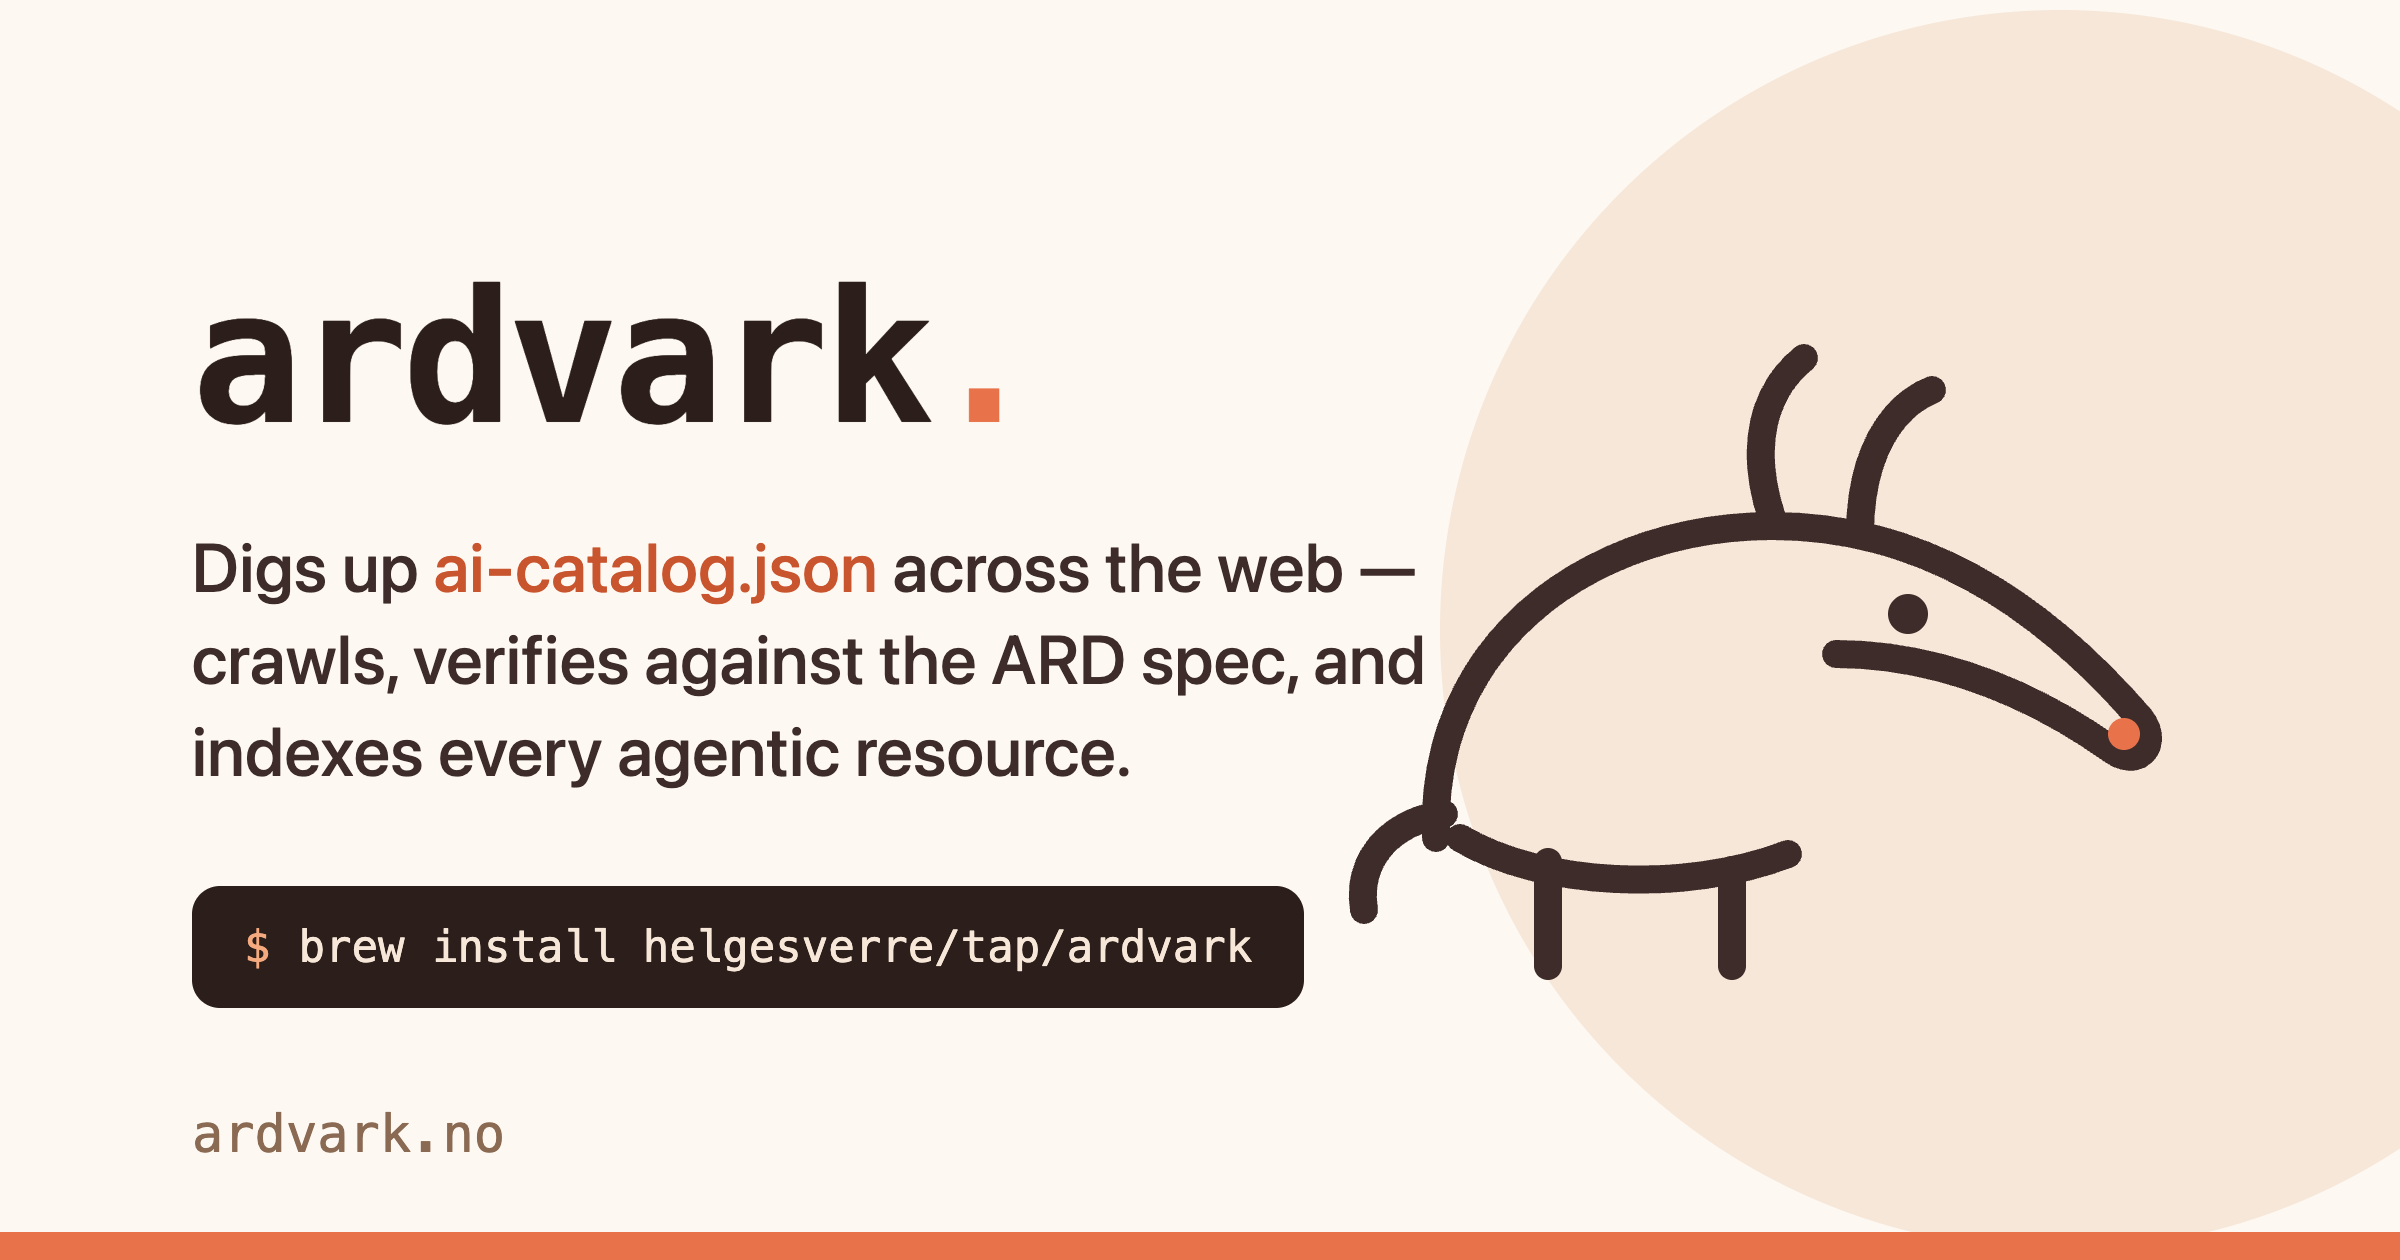
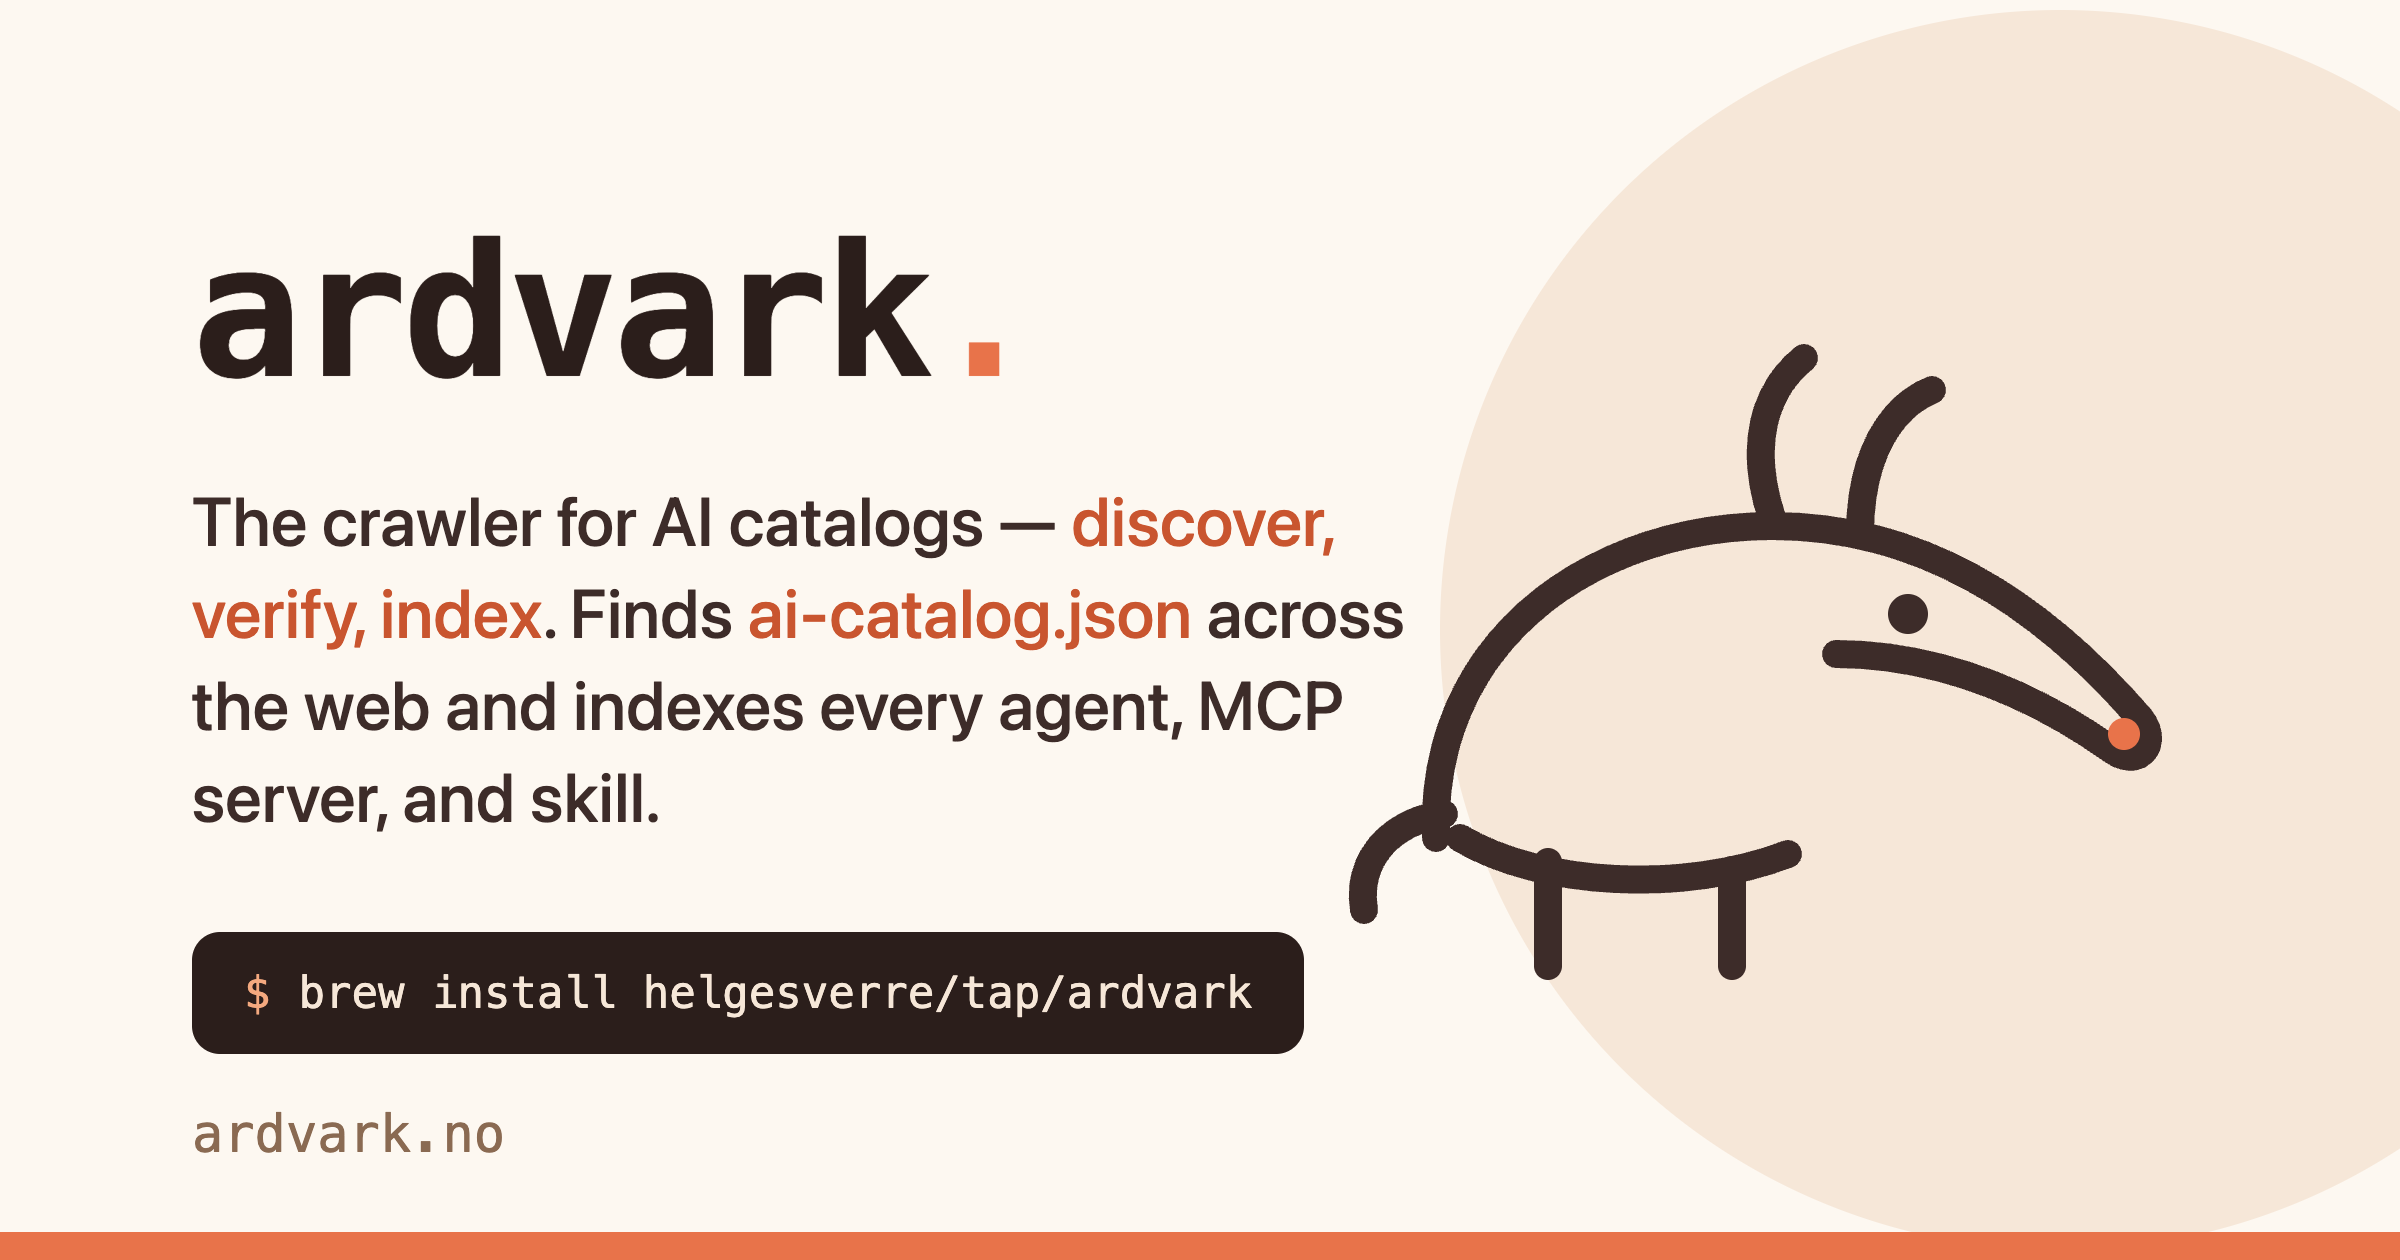
website update

Changed region(s): [[0.0625, 0.4024, 0.5938, 0.65], [0.0625, 0.681, 0.5625, 0.8357], [0.0625, 0.1857, 0.4375, 0.3405]]

diff --git a/website/index.html b/website/index.html
@@ -3,21 +3,21 @@
 <head>
   <meta charset="UTF-8">
   <meta name="viewport" content="width=device-width, initial-scale=1.0">
-  <title>ardvark — crawler &amp; indexer for the agentic web</title>
-  <meta name="description" content="ardvark crawls the web for ARD ai-catalog.json documents, verifies them against the spec, and indexes every discovered agent, MCP server, and skill into SQLite, MySQL, or Postgres.">
+  <title>ardvark — the crawler for AI catalogs</title>
+  <meta name="description" content="ardvark is the crawler for AI catalogs — it discovers ai-catalog.json documents across the web, verifies them against the ARD spec, and indexes every agent, MCP server, and skill into an SQLite database.">
   <meta property="og:type" content="website">
   <meta property="og:url" content="https://ardvark.no/">
-  <meta property="og:title" content="ardvark — crawler &amp; indexer for the agentic web">
-  <meta property="og:description" content="Crawls the web for ARD ai-catalog.json documents, verifies them against the spec, and indexes every discovered agent, MCP server, and skill.">
+  <meta property="og:title" content="ardvark — the crawler for AI catalogs">
+  <meta property="og:description" content="The crawler for AI catalogs — discover, verify, index. Finds ai-catalog.json across the web and indexes every agent, MCP server, and skill.">
   <meta property="og:image" content="https://ardvark.no/og.png">
   <meta property="og:image:width" content="2400">
   <meta property="og:image:height" content="1260">
-  <meta property="og:image:alt" content="ardvark — crawler &amp; indexer for the agentic web">
+  <meta property="og:image:alt" content="ardvark — the crawler for AI catalogs">
   <meta property="og:site_name" content="ardvark">
   <meta property="og:locale" content="en_US">
   <meta name="twitter:card" content="summary_large_image">
-  <meta name="twitter:title" content="ardvark — crawler &amp; indexer for the agentic web">
-  <meta name="twitter:description" content="Crawls the web for ARD ai-catalog.json documents, verifies them against the spec, and indexes every discovered agent, MCP server, and skill.">
+  <meta name="twitter:title" content="ardvark — the crawler for AI catalogs">
+  <meta name="twitter:description" content="The crawler for AI catalogs — discover, verify, index. Finds ai-catalog.json across the web and indexes every agent, MCP server, and skill.">
   <meta name="twitter:image" content="https://ardvark.no/og.png">
   <meta name="robots" content="index, follow">
   <meta name="theme-color" content="#FDF8F1">
@@ -34,7 +34,7 @@
     "@type": "SoftwareApplication",
     "name": "ardvark",
     "url": "https://ardvark.no/",
-    "description": "ardvark crawls the web for ARD ai-catalog.json documents, verifies them against the spec, and indexes every discovered agent, MCP server, and skill into SQLite, MySQL, or Postgres.",
+    "description": "ardvark is the crawler for AI catalogs — it discovers ai-catalog.json documents across the web, verifies them against the ARD spec, and indexes every agent, MCP server, and skill into an SQLite database.",
     "applicationCategory": "DeveloperApplication",
     "operatingSystem": "macOS, Linux, Windows",
     "offers": { "@type": "Offer", "price": "0", "priceCurrency": "USD" },
@@ -47,14 +47,14 @@
 
 <header class="hero wrap">
   <div>
-    <h1>The agentic web is publishing catalogs.<br><em>ardvark digs them up.</em></h1>
-    <p class="sub">Sites are starting to advertise their AI agents, MCP servers, and skills in <code>/.well-known/ai-catalog.json</code>. ardvark crawls for those catalogs, verifies them against the ARD spec, and indexes every resource into a SQLite database you can build on.</p>
+    <h1>The crawler for AI catalogs.<br><em>Discover, verify, index.</em></h1>
+    <p class="sub">Sites are starting to advertise their AI agents, MCP servers, and skills in <code>/.well-known/ai-catalog.json</code>. ardvark crawls for those catalogs, verifies them against the ARD spec, and indexes every resource into an SQLite database.</p>
     <div class="install">
       <span class="prompt">$</span>
       <code id="install-cmd">brew install helgesverre/tap/ardvark</code>
       <button class="copy" data-copy="brew install helgesverre/tap/ardvark">copy</button>
     </div>
-    <p class="reqs">macOS · Linux · Windows — single binary, no runtime</p>
+    <p class="reqs">macOS · Linux · Windows</p>
     <div class="ctas">
       <a class="btn btn-primary" href="#quickstart">Get started</a>
       <a class="btn btn-ghost" href="docs.html">Read docs</a>

diff --git a/website/og/template.html b/website/og/template.html
@@ -115,7 +115,7 @@
 
   <div class="text">
     <div class="wordmark">ardvark<span class="dot">.</span></div>
-    <div class="tagline">Digs up <em>ai-catalog.json</em> across the web — crawls, verifies against the ARD spec, and indexes every agentic resource.</div>
+    <div class="tagline">The crawler for AI catalogs — <em>discover, verify, index</em>. Finds <em>ai-catalog.json</em> across the web and indexes every agent, MCP server, and skill.</div>
     <div class="chip"><span class="prompt">$</span> brew install helgesverre/tap/ardvark</div>
   </div>
 

diff --git a/website/style.css b/website/style.css
@@ -229,7 +229,7 @@ h2 {
 
 .steps { display: grid; gap: 20px; }
 
-.step { display: grid; grid-template-columns: 200px 1fr; gap: 20px; align-items: start; }
+.step { display: grid; grid-template-columns: 200px 1fr; gap: 20px; align-items: end; }
 
 .step-label { padding-top: 10px; }
 .step-label .num { font-family: var(--font-mono); font-size: var(--text-xs); color: var(--brand-primary); }